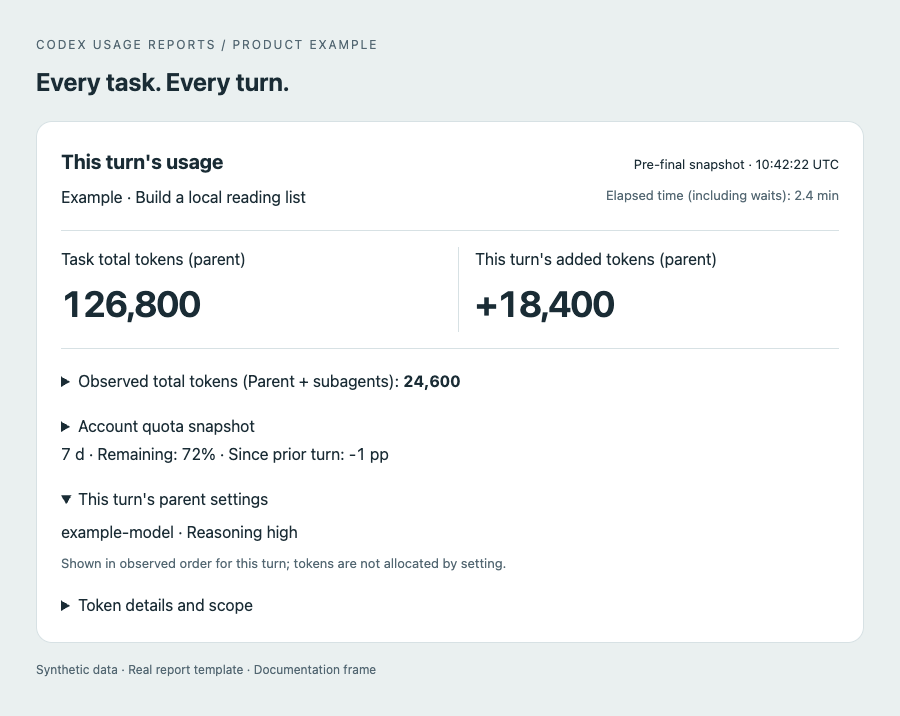
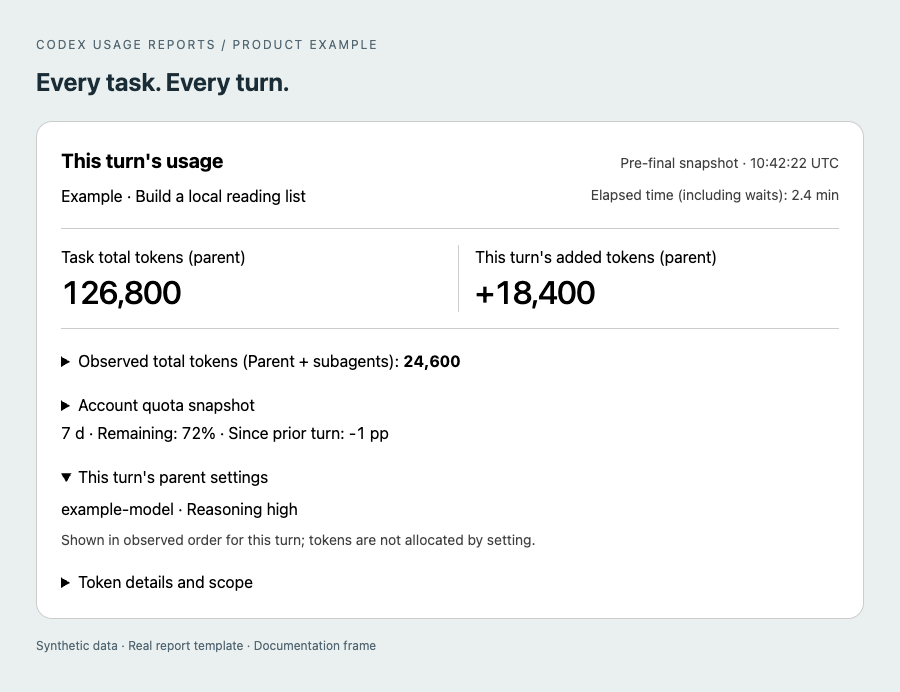
Fix mobile report contrast across remote host themes

diff --git a/docs/examples/turn-ja.html b/docs/examples/turn-ja.html
@@ -21,37 +21,48 @@ section[id]{background:#132630}.example-kicker,.example-note{color:#a0b2bb}}
 <h1 class="example-title">Every task. Every turn.</h1><section id="usage-reports-example" lang="ja" aria-label="このターンの使用量">
   <style>
     #usage-reports-example {
-      color: var(--foreground); overflow-wrap: anywhere; box-sizing: border-box;
-      border: 1px solid var(--border); border-radius: 16px; padding: clamp(16px, 3vw, 24px);
+      /* System color pairs remain readable when a remote host omits or misbinds its theme tokens. */
+      color: CanvasText; background-color: Canvas;
+      font-family: system-ui, sans-serif; font-size: 1rem; line-height: 1.5;
+      overflow-wrap: anywhere; box-sizing: border-box;
+      border: 1px solid var(--report-border, GrayText); border-radius: 16px; padding: clamp(16px, 3vw, 24px);
+    }
+    #usage-reports-example :is(h2, p, span, dt, dd, summary, strong, li, th, td) { color: inherit; -webkit-text-fill-color: currentColor; }
+    #usage-reports-example .text-small { font-size: .875em; opacity: .75; }
+    #usage-reports-example .viz-stat-value { color: CanvasText; font-size: 2rem; line-height: 1.2; font-weight: 500; }
+    #usage-reports-example .tabular-nums { font-variant-numeric: tabular-nums; }
+    #usage-reports-example .report-head h2 { font-size: 1.25em; }
+    @supports (color: color-mix(in srgb, CanvasText 20%, Canvas)) {
+      #usage-reports-example { --report-border: color-mix(in srgb, CanvasText 20%, Canvas); }
     }
     #usage-reports-example .report-head { display: flex; flex-wrap: wrap; align-items: baseline; justify-content: space-between; gap: 8px 16px; }
     #usage-reports-example .report-head h2 { margin: 0; }
     #usage-reports-example .report-meta { display: flex; flex-wrap: wrap; justify-content: space-between; gap: 4px 16px; margin: 8px 0 20px; }
     #usage-reports-example .report-meta p { margin: 0; }
-    #usage-reports-example .report-meta .text-small { color: var(--muted-foreground); }
-    #usage-reports-example .report-totals { display: grid; grid-template-columns: minmax(0, 1fr) minmax(0, 1fr); gap: 16px; margin: 0; padding: 16px 0; border-top: 1px solid var(--border); border-bottom: 1px solid var(--border); }
-    #usage-reports-example .report-totals > div + div { border-left: 1px solid var(--border); padding-left: 16px; }
-    #usage-reports-example .report-totals dt { color: var(--foreground); }
+    #usage-reports-example .report-meta .text-small { color: CanvasText; }
+    #usage-reports-example .report-totals { display: grid; grid-template-columns: minmax(0, 1fr) minmax(0, 1fr); gap: 16px; margin: 0; padding: 16px 0; border-top: 1px solid var(--report-border, GrayText); border-bottom: 1px solid var(--report-border, GrayText); }
+    #usage-reports-example .report-totals > div + div { border-left: 1px solid var(--report-border, GrayText); padding-left: 16px; }
+    #usage-reports-example .report-totals dt { color: CanvasText; }
     #usage-reports-example .report-scope p { margin: 4px 0; }
     #usage-reports-example .report-context-list { margin: 8px 0; padding-left: 1.5em; }
     #usage-reports-example .report-context-list li + li { margin-top: 6px; }
     #usage-reports-example .report-context-single { margin: 8px 0; }
-    #usage-reports-example .report-context .text-small { color: var(--muted-foreground); margin: 6px 0; }
-    #usage-reports-example .report-quota .text-small { color: var(--muted-foreground); margin: 6px 0; }
+    #usage-reports-example .report-context .text-small { color: CanvasText; margin: 6px 0; }
+    #usage-reports-example .report-quota .text-small { color: CanvasText; margin: 6px 0; }
     #usage-reports-example .report-quota-weekly { display: block; margin-top: 4px; font-variant-numeric: tabular-nums; }
     #usage-reports-example .report-quota-table { width: 100%; table-layout: fixed; border-collapse: collapse; }
-    #usage-reports-example .report-quota-table th, #usage-reports-example .report-quota-table td { text-align: left; vertical-align: top; padding: 10px 12px 10px 0; border-bottom: 1px solid var(--border); }
+    #usage-reports-example .report-quota-table th, #usage-reports-example .report-quota-table td { text-align: left; vertical-align: top; padding: 10px 12px 10px 0; border-bottom: 1px solid var(--report-border, GrayText); }
     #usage-reports-example .report-quota-table th:last-child, #usage-reports-example .report-quota-table td:last-child { padding-right: 0; }
-    #usage-reports-example .report-quota-table thead th { color: var(--muted-foreground); }
+    #usage-reports-example .report-quota-table thead th { color: CanvasText; }
     #usage-reports-example .report-quota-table th:nth-child(1) { width: 34%; }
     #usage-reports-example .report-quota-table th:nth-child(2) { width: 23%; }
-    #usage-reports-example dt { color: var(--muted-foreground); }
+    #usage-reports-example dt { color: CanvasText; }
     #usage-reports-example dd { margin: 4px 0 0; }
     #usage-reports-example details { margin-top: 20px; }
     #usage-reports-example summary { cursor: pointer; }
     #usage-reports-example .report-detail { display: grid; grid-template-columns: 1fr auto; gap: 8px 16px; }
     #usage-reports-example .report-detail dd { margin: 0; text-align: right; font-variant-numeric: tabular-nums; }
-    #usage-reports-example .report-agent { display: grid; grid-template-columns: minmax(0, 1fr) auto; gap: 12px; padding: 12px 0; border-top: 1px solid var(--border); }
+    #usage-reports-example .report-agent { display: grid; grid-template-columns: minmax(0, 1fr) auto; gap: 12px; padding: 12px 0; border-top: 1px solid var(--report-border, GrayText); }
     @media (max-width: 480px) {
       #usage-reports-example .report-totals { grid-template-columns: minmax(0, 1fr); }
       #usage-reports-example .report-totals > div + div { border-left: 0; padding-left: 0; }

diff --git a/docs/examples/turn-en.html b/docs/examples/turn-en.html
@@ -21,37 +21,48 @@ section[id]{background:#132630}.example-kicker,.example-note{color:#a0b2bb}}
 <h1 class="example-title">Every task. Every turn.</h1><section id="usage-reports-example" lang="en" aria-label="This turn&#x27;s usage">
   <style>
     #usage-reports-example {
-      color: var(--foreground); overflow-wrap: anywhere; box-sizing: border-box;
-      border: 1px solid var(--border); border-radius: 16px; padding: clamp(16px, 3vw, 24px);
+      /* System color pairs remain readable when a remote host omits or misbinds its theme tokens. */
+      color: CanvasText; background-color: Canvas;
+      font-family: system-ui, sans-serif; font-size: 1rem; line-height: 1.5;
+      overflow-wrap: anywhere; box-sizing: border-box;
+      border: 1px solid var(--report-border, GrayText); border-radius: 16px; padding: clamp(16px, 3vw, 24px);
+    }
+    #usage-reports-example :is(h2, p, span, dt, dd, summary, strong, li, th, td) { color: inherit; -webkit-text-fill-color: currentColor; }
+    #usage-reports-example .text-small { font-size: .875em; opacity: .75; }
+    #usage-reports-example .viz-stat-value { color: CanvasText; font-size: 2rem; line-height: 1.2; font-weight: 500; }
+    #usage-reports-example .tabular-nums { font-variant-numeric: tabular-nums; }
+    #usage-reports-example .report-head h2 { font-size: 1.25em; }
+    @supports (color: color-mix(in srgb, CanvasText 20%, Canvas)) {
+      #usage-reports-example { --report-border: color-mix(in srgb, CanvasText 20%, Canvas); }
     }
     #usage-reports-example .report-head { display: flex; flex-wrap: wrap; align-items: baseline; justify-content: space-between; gap: 8px 16px; }
     #usage-reports-example .report-head h2 { margin: 0; }
     #usage-reports-example .report-meta { display: flex; flex-wrap: wrap; justify-content: space-between; gap: 4px 16px; margin: 8px 0 20px; }
     #usage-reports-example .report-meta p { margin: 0; }
-    #usage-reports-example .report-meta .text-small { color: var(--muted-foreground); }
-    #usage-reports-example .report-totals { display: grid; grid-template-columns: minmax(0, 1fr) minmax(0, 1fr); gap: 16px; margin: 0; padding: 16px 0; border-top: 1px solid var(--border); border-bottom: 1px solid var(--border); }
-    #usage-reports-example .report-totals > div + div { border-left: 1px solid var(--border); padding-left: 16px; }
-    #usage-reports-example .report-totals dt { color: var(--foreground); }
+    #usage-reports-example .report-meta .text-small { color: CanvasText; }
+    #usage-reports-example .report-totals { display: grid; grid-template-columns: minmax(0, 1fr) minmax(0, 1fr); gap: 16px; margin: 0; padding: 16px 0; border-top: 1px solid var(--report-border, GrayText); border-bottom: 1px solid var(--report-border, GrayText); }
+    #usage-reports-example .report-totals > div + div { border-left: 1px solid var(--report-border, GrayText); padding-left: 16px; }
+    #usage-reports-example .report-totals dt { color: CanvasText; }
     #usage-reports-example .report-scope p { margin: 4px 0; }
     #usage-reports-example .report-context-list { margin: 8px 0; padding-left: 1.5em; }
     #usage-reports-example .report-context-list li + li { margin-top: 6px; }
     #usage-reports-example .report-context-single { margin: 8px 0; }
-    #usage-reports-example .report-context .text-small { color: var(--muted-foreground); margin: 6px 0; }
-    #usage-reports-example .report-quota .text-small { color: var(--muted-foreground); margin: 6px 0; }
+    #usage-reports-example .report-context .text-small { color: CanvasText; margin: 6px 0; }
+    #usage-reports-example .report-quota .text-small { color: CanvasText; margin: 6px 0; }
     #usage-reports-example .report-quota-weekly { display: block; margin-top: 4px; font-variant-numeric: tabular-nums; }
     #usage-reports-example .report-quota-table { width: 100%; table-layout: fixed; border-collapse: collapse; }
-    #usage-reports-example .report-quota-table th, #usage-reports-example .report-quota-table td { text-align: left; vertical-align: top; padding: 10px 12px 10px 0; border-bottom: 1px solid var(--border); }
+    #usage-reports-example .report-quota-table th, #usage-reports-example .report-quota-table td { text-align: left; vertical-align: top; padding: 10px 12px 10px 0; border-bottom: 1px solid var(--report-border, GrayText); }
     #usage-reports-example .report-quota-table th:last-child, #usage-reports-example .report-quota-table td:last-child { padding-right: 0; }
-    #usage-reports-example .report-quota-table thead th { color: var(--muted-foreground); }
+    #usage-reports-example .report-quota-table thead th { color: CanvasText; }
     #usage-reports-example .report-quota-table th:nth-child(1) { width: 34%; }
     #usage-reports-example .report-quota-table th:nth-child(2) { width: 23%; }
-    #usage-reports-example dt { color: var(--muted-foreground); }
+    #usage-reports-example dt { color: CanvasText; }
     #usage-reports-example dd { margin: 4px 0 0; }
     #usage-reports-example details { margin-top: 20px; }
     #usage-reports-example summary { cursor: pointer; }
     #usage-reports-example .report-detail { display: grid; grid-template-columns: 1fr auto; gap: 8px 16px; }
     #usage-reports-example .report-detail dd { margin: 0; text-align: right; font-variant-numeric: tabular-nums; }
-    #usage-reports-example .report-agent { display: grid; grid-template-columns: minmax(0, 1fr) auto; gap: 12px; padding: 12px 0; border-top: 1px solid var(--border); }
+    #usage-reports-example .report-agent { display: grid; grid-template-columns: minmax(0, 1fr) auto; gap: 12px; padding: 12px 0; border-top: 1px solid var(--report-border, GrayText); }
     @media (max-width: 480px) {
       #usage-reports-example .report-totals { grid-template-columns: minmax(0, 1fr); }
       #usage-reports-example .report-totals > div + div { border-left: 0; padding-left: 0; }

diff --git a/docs/examples/turn-zh-Hans.html b/docs/examples/turn-zh-Hans.html
@@ -21,37 +21,48 @@ section[id]{background:#132630}.example-kicker,.example-note{color:#a0b2bb}}
 <h1 class="example-title">Every task. Every turn.</h1><section id="usage-reports-example" lang="zh-Hans" aria-label="本回合用量">
   <style>
     #usage-reports-example {
-      color: var(--foreground); overflow-wrap: anywhere; box-sizing: border-box;
-      border: 1px solid var(--border); border-radius: 16px; padding: clamp(16px, 3vw, 24px);
+      /* System color pairs remain readable when a remote host omits or misbinds its theme tokens. */
+      color: CanvasText; background-color: Canvas;
+      font-family: system-ui, sans-serif; font-size: 1rem; line-height: 1.5;
+      overflow-wrap: anywhere; box-sizing: border-box;
+      border: 1px solid var(--report-border, GrayText); border-radius: 16px; padding: clamp(16px, 3vw, 24px);
+    }
+    #usage-reports-example :is(h2, p, span, dt, dd, summary, strong, li, th, td) { color: inherit; -webkit-text-fill-color: currentColor; }
+    #usage-reports-example .text-small { font-size: .875em; opacity: .75; }
+    #usage-reports-example .viz-stat-value { color: CanvasText; font-size: 2rem; line-height: 1.2; font-weight: 500; }
+    #usage-reports-example .tabular-nums { font-variant-numeric: tabular-nums; }
+    #usage-reports-example .report-head h2 { font-size: 1.25em; }
+    @supports (color: color-mix(in srgb, CanvasText 20%, Canvas)) {
+      #usage-reports-example { --report-border: color-mix(in srgb, CanvasText 20%, Canvas); }
     }
     #usage-reports-example .report-head { display: flex; flex-wrap: wrap; align-items: baseline; justify-content: space-between; gap: 8px 16px; }
     #usage-reports-example .report-head h2 { margin: 0; }
     #usage-reports-example .report-meta { display: flex; flex-wrap: wrap; justify-content: space-between; gap: 4px 16px; margin: 8px 0 20px; }
     #usage-reports-example .report-meta p { margin: 0; }
-    #usage-reports-example .report-meta .text-small { color: var(--muted-foreground); }
-    #usage-reports-example .report-totals { display: grid; grid-template-columns: minmax(0, 1fr) minmax(0, 1fr); gap: 16px; margin: 0; padding: 16px 0; border-top: 1px solid var(--border); border-bottom: 1px solid var(--border); }
-    #usage-reports-example .report-totals > div + div { border-left: 1px solid var(--border); padding-left: 16px; }
-    #usage-reports-example .report-totals dt { color: var(--foreground); }
+    #usage-reports-example .report-meta .text-small { color: CanvasText; }
+    #usage-reports-example .report-totals { display: grid; grid-template-columns: minmax(0, 1fr) minmax(0, 1fr); gap: 16px; margin: 0; padding: 16px 0; border-top: 1px solid var(--report-border, GrayText); border-bottom: 1px solid var(--report-border, GrayText); }
+    #usage-reports-example .report-totals > div + div { border-left: 1px solid var(--report-border, GrayText); padding-left: 16px; }
+    #usage-reports-example .report-totals dt { color: CanvasText; }
     #usage-reports-example .report-scope p { margin: 4px 0; }
     #usage-reports-example .report-context-list { margin: 8px 0; padding-left: 1.5em; }
     #usage-reports-example .report-context-list li + li { margin-top: 6px; }
     #usage-reports-example .report-context-single { margin: 8px 0; }
-    #usage-reports-example .report-context .text-small { color: var(--muted-foreground); margin: 6px 0; }
-    #usage-reports-example .report-quota .text-small { color: var(--muted-foreground); margin: 6px 0; }
+    #usage-reports-example .report-context .text-small { color: CanvasText; margin: 6px 0; }
+    #usage-reports-example .report-quota .text-small { color: CanvasText; margin: 6px 0; }
     #usage-reports-example .report-quota-weekly { display: block; margin-top: 4px; font-variant-numeric: tabular-nums; }
     #usage-reports-example .report-quota-table { width: 100%; table-layout: fixed; border-collapse: collapse; }
-    #usage-reports-example .report-quota-table th, #usage-reports-example .report-quota-table td { text-align: left; vertical-align: top; padding: 10px 12px 10px 0; border-bottom: 1px solid var(--border); }
+    #usage-reports-example .report-quota-table th, #usage-reports-example .report-quota-table td { text-align: left; vertical-align: top; padding: 10px 12px 10px 0; border-bottom: 1px solid var(--report-border, GrayText); }
     #usage-reports-example .report-quota-table th:last-child, #usage-reports-example .report-quota-table td:last-child { padding-right: 0; }
-    #usage-reports-example .report-quota-table thead th { color: var(--muted-foreground); }
+    #usage-reports-example .report-quota-table thead th { color: CanvasText; }
     #usage-reports-example .report-quota-table th:nth-child(1) { width: 34%; }
     #usage-reports-example .report-quota-table th:nth-child(2) { width: 23%; }
-    #usage-reports-example dt { color: var(--muted-foreground); }
+    #usage-reports-example dt { color: CanvasText; }
     #usage-reports-example dd { margin: 4px 0 0; }
     #usage-reports-example details { margin-top: 20px; }
     #usage-reports-example summary { cursor: pointer; }
     #usage-reports-example .report-detail { display: grid; grid-template-columns: 1fr auto; gap: 8px 16px; }
     #usage-reports-example .report-detail dd { margin: 0; text-align: right; font-variant-numeric: tabular-nums; }
-    #usage-reports-example .report-agent { display: grid; grid-template-columns: minmax(0, 1fr) auto; gap: 12px; padding: 12px 0; border-top: 1px solid var(--border); }
+    #usage-reports-example .report-agent { display: grid; grid-template-columns: minmax(0, 1fr) auto; gap: 12px; padding: 12px 0; border-top: 1px solid var(--report-border, GrayText); }
     @media (max-width: 480px) {
       #usage-reports-example .report-totals { grid-template-columns: minmax(0, 1fr); }
       #usage-reports-example .report-totals > div + div { border-left: 0; padding-left: 0; }

diff --git a/docs/examples/turn-zh-Hant.html b/docs/examples/turn-zh-Hant.html
@@ -21,37 +21,48 @@ section[id]{background:#132630}.example-kicker,.example-note{color:#a0b2bb}}
 <h1 class="example-title">Every task. Every turn.</h1><section id="usage-reports-example" lang="zh-Hant" aria-label="本回合用量">
   <style>
     #usage-reports-example {
-      color: var(--foreground); overflow-wrap: anywhere; box-sizing: border-box;
-      border: 1px solid var(--border); border-radius: 16px; padding: clamp(16px, 3vw, 24px);
+      /* System color pairs remain readable when a remote host omits or misbinds its theme tokens. */
+      color: CanvasText; background-color: Canvas;
+      font-family: system-ui, sans-serif; font-size: 1rem; line-height: 1.5;
+      overflow-wrap: anywhere; box-sizing: border-box;
+      border: 1px solid var(--report-border, GrayText); border-radius: 16px; padding: clamp(16px, 3vw, 24px);
+    }
+    #usage-reports-example :is(h2, p, span, dt, dd, summary, strong, li, th, td) { color: inherit; -webkit-text-fill-color: currentColor; }
+    #usage-reports-example .text-small { font-size: .875em; opacity: .75; }
+    #usage-reports-example .viz-stat-value { color: CanvasText; font-size: 2rem; line-height: 1.2; font-weight: 500; }
+    #usage-reports-example .tabular-nums { font-variant-numeric: tabular-nums; }
+    #usage-reports-example .report-head h2 { font-size: 1.25em; }
+    @supports (color: color-mix(in srgb, CanvasText 20%, Canvas)) {
+      #usage-reports-example { --report-border: color-mix(in srgb, CanvasText 20%, Canvas); }
     }
     #usage-reports-example .report-head { display: flex; flex-wrap: wrap; align-items: baseline; justify-content: space-between; gap: 8px 16px; }
     #usage-reports-example .report-head h2 { margin: 0; }
     #usage-reports-example .report-meta { display: flex; flex-wrap: wrap; justify-content: space-between; gap: 4px 16px; margin: 8px 0 20px; }
     #usage-reports-example .report-meta p { margin: 0; }
-    #usage-reports-example .report-meta .text-small { color: var(--muted-foreground); }
-    #usage-reports-example .report-totals { display: grid; grid-template-columns: minmax(0, 1fr) minmax(0, 1fr); gap: 16px; margin: 0; padding: 16px 0; border-top: 1px solid var(--border); border-bottom: 1px solid var(--border); }
-    #usage-reports-example .report-totals > div + div { border-left: 1px solid var(--border); padding-left: 16px; }
-    #usage-reports-example .report-totals dt { color: var(--foreground); }
+    #usage-reports-example .report-meta .text-small { color: CanvasText; }
+    #usage-reports-example .report-totals { display: grid; grid-template-columns: minmax(0, 1fr) minmax(0, 1fr); gap: 16px; margin: 0; padding: 16px 0; border-top: 1px solid var(--report-border, GrayText); border-bottom: 1px solid var(--report-border, GrayText); }
+    #usage-reports-example .report-totals > div + div { border-left: 1px solid var(--report-border, GrayText); padding-left: 16px; }
+    #usage-reports-example .report-totals dt { color: CanvasText; }
     #usage-reports-example .report-scope p { margin: 4px 0; }
     #usage-reports-example .report-context-list { margin: 8px 0; padding-left: 1.5em; }
     #usage-reports-example .report-context-list li + li { margin-top: 6px; }
     #usage-reports-example .report-context-single { margin: 8px 0; }
-    #usage-reports-example .report-context .text-small { color: var(--muted-foreground); margin: 6px 0; }
-    #usage-reports-example .report-quota .text-small { color: var(--muted-foreground); margin: 6px 0; }
+    #usage-reports-example .report-context .text-small { color: CanvasText; margin: 6px 0; }
+    #usage-reports-example .report-quota .text-small { color: CanvasText; margin: 6px 0; }
     #usage-reports-example .report-quota-weekly { display: block; margin-top: 4px; font-variant-numeric: tabular-nums; }
     #usage-reports-example .report-quota-table { width: 100%; table-layout: fixed; border-collapse: collapse; }
-    #usage-reports-example .report-quota-table th, #usage-reports-example .report-quota-table td { text-align: left; vertical-align: top; padding: 10px 12px 10px 0; border-bottom: 1px solid var(--border); }
+    #usage-reports-example .report-quota-table th, #usage-reports-example .report-quota-table td { text-align: left; vertical-align: top; padding: 10px 12px 10px 0; border-bottom: 1px solid var(--report-border, GrayText); }
     #usage-reports-example .report-quota-table th:last-child, #usage-reports-example .report-quota-table td:last-child { padding-right: 0; }
-    #usage-reports-example .report-quota-table thead th { color: var(--muted-foreground); }
+    #usage-reports-example .report-quota-table thead th { color: CanvasText; }
     #usage-reports-example .report-quota-table th:nth-child(1) { width: 34%; }
     #usage-reports-example .report-quota-table th:nth-child(2) { width: 23%; }
-    #usage-reports-example dt { color: var(--muted-foreground); }
+    #usage-reports-example dt { color: CanvasText; }
     #usage-reports-example dd { margin: 4px 0 0; }
     #usage-reports-example details { margin-top: 20px; }
     #usage-reports-example summary { cursor: pointer; }
     #usage-reports-example .report-detail { display: grid; grid-template-columns: 1fr auto; gap: 8px 16px; }
     #usage-reports-example .report-detail dd { margin: 0; text-align: right; font-variant-numeric: tabular-nums; }
-    #usage-reports-example .report-agent { display: grid; grid-template-columns: minmax(0, 1fr) auto; gap: 12px; padding: 12px 0; border-top: 1px solid var(--border); }
+    #usage-reports-example .report-agent { display: grid; grid-template-columns: minmax(0, 1fr) auto; gap: 12px; padding: 12px 0; border-top: 1px solid var(--report-border, GrayText); }
     @media (max-width: 480px) {
       #usage-reports-example .report-totals { grid-template-columns: minmax(0, 1fr); }
       #usage-reports-example .report-totals > div + div { border-left: 0; padding-left: 0; }

diff --git a/plugins/codex-usage-reports/lib/codex_usage_reports/assets/turn-card.html b/plugins/codex-usage-reports/lib/codex_usage_reports/assets/turn-card.html
@@ -1,37 +1,48 @@
 <section id="usage-reports-$key" lang="$locale" aria-label="$label_card_title">
   <style>
     #usage-reports-$key {
-      color: var(--foreground); overflow-wrap: anywhere; box-sizing: border-box;
-      border: 1px solid var(--border); border-radius: 16px; padding: clamp(16px, 3vw, 24px);
+      /* System color pairs remain readable when a remote host omits or misbinds its theme tokens. */
+      color: CanvasText; background-color: Canvas;
+      font-family: system-ui, sans-serif; font-size: 1rem; line-height: 1.5;
+      overflow-wrap: anywhere; box-sizing: border-box;
+      border: 1px solid var(--report-border, GrayText); border-radius: 16px; padding: clamp(16px, 3vw, 24px);
+    }
+    #usage-reports-$key :is(h2, p, span, dt, dd, summary, strong, li, th, td) { color: inherit; -webkit-text-fill-color: currentColor; }
+    #usage-reports-$key .text-small { font-size: .875em; opacity: .75; }
+    #usage-reports-$key .viz-stat-value { color: CanvasText; font-size: 2rem; line-height: 1.2; font-weight: 500; }
+    #usage-reports-$key .tabular-nums { font-variant-numeric: tabular-nums; }
+    #usage-reports-$key .report-head h2 { font-size: 1.25em; }
+    @supports (color: color-mix(in srgb, CanvasText 20%, Canvas)) {
+      #usage-reports-$key { --report-border: color-mix(in srgb, CanvasText 20%, Canvas); }
     }
     #usage-reports-$key .report-head { display: flex; flex-wrap: wrap; align-items: baseline; justify-content: space-between; gap: 8px 16px; }
     #usage-reports-$key .report-head h2 { margin: 0; }
     #usage-reports-$key .report-meta { display: flex; flex-wrap: wrap; justify-content: space-between; gap: 4px 16px; margin: 8px 0 20px; }
     #usage-reports-$key .report-meta p { margin: 0; }
-    #usage-reports-$key .report-meta .text-small { color: var(--muted-foreground); }
-    #usage-reports-$key .report-totals { display: grid; grid-template-columns: minmax(0, 1fr) minmax(0, 1fr); gap: 16px; margin: 0; padding: 16px 0; border-top: 1px solid var(--border); border-bottom: 1px solid var(--border); }
-    #usage-reports-$key .report-totals > div + div { border-left: 1px solid var(--border); padding-left: 16px; }
-    #usage-reports-$key .report-totals dt { color: var(--foreground); }
+    #usage-reports-$key .report-meta .text-small { color: CanvasText; }
+    #usage-reports-$key .report-totals { display: grid; grid-template-columns: minmax(0, 1fr) minmax(0, 1fr); gap: 16px; margin: 0; padding: 16px 0; border-top: 1px solid var(--report-border, GrayText); border-bottom: 1px solid var(--report-border, GrayText); }
+    #usage-reports-$key .report-totals > div + div { border-left: 1px solid var(--report-border, GrayText); padding-left: 16px; }
+    #usage-reports-$key .report-totals dt { color: CanvasText; }
     #usage-reports-$key .report-scope p { margin: 4px 0; }
     #usage-reports-$key .report-context-list { margin: 8px 0; padding-left: 1.5em; }
     #usage-reports-$key .report-context-list li + li { margin-top: 6px; }
     #usage-reports-$key .report-context-single { margin: 8px 0; }
-    #usage-reports-$key .report-context .text-small { color: var(--muted-foreground); margin: 6px 0; }
-    #usage-reports-$key .report-quota .text-small { color: var(--muted-foreground); margin: 6px 0; }
+    #usage-reports-$key .report-context .text-small { color: CanvasText; margin: 6px 0; }
+    #usage-reports-$key .report-quota .text-small { color: CanvasText; margin: 6px 0; }
     #usage-reports-$key .report-quota-weekly { display: block; margin-top: 4px; font-variant-numeric: tabular-nums; }
     #usage-reports-$key .report-quota-table { width: 100%; table-layout: fixed; border-collapse: collapse; }
-    #usage-reports-$key .report-quota-table th, #usage-reports-$key .report-quota-table td { text-align: left; vertical-align: top; padding: 10px 12px 10px 0; border-bottom: 1px solid var(--border); }
+    #usage-reports-$key .report-quota-table th, #usage-reports-$key .report-quota-table td { text-align: left; vertical-align: top; padding: 10px 12px 10px 0; border-bottom: 1px solid var(--report-border, GrayText); }
     #usage-reports-$key .report-quota-table th:last-child, #usage-reports-$key .report-quota-table td:last-child { padding-right: 0; }
-    #usage-reports-$key .report-quota-table thead th { color: var(--muted-foreground); }
+    #usage-reports-$key .report-quota-table thead th { color: CanvasText; }
     #usage-reports-$key .report-quota-table th:nth-child(1) { width: 34%; }
     #usage-reports-$key .report-quota-table th:nth-child(2) { width: 23%; }
-    #usage-reports-$key dt { color: var(--muted-foreground); }
+    #usage-reports-$key dt { color: CanvasText; }
     #usage-reports-$key dd { margin: 4px 0 0; }
     #usage-reports-$key details { margin-top: 20px; }
     #usage-reports-$key summary { cursor: pointer; }
     #usage-reports-$key .report-detail { display: grid; grid-template-columns: 1fr auto; gap: 8px 16px; }
     #usage-reports-$key .report-detail dd { margin: 0; text-align: right; font-variant-numeric: tabular-nums; }
-    #usage-reports-$key .report-agent { display: grid; grid-template-columns: minmax(0, 1fr) auto; gap: 12px; padding: 12px 0; border-top: 1px solid var(--border); }
+    #usage-reports-$key .report-agent { display: grid; grid-template-columns: minmax(0, 1fr) auto; gap: 12px; padding: 12px 0; border-top: 1px solid var(--report-border, GrayText); }
     @media (max-width: 480px) {
       #usage-reports-$key .report-totals { grid-template-columns: minmax(0, 1fr); }
       #usage-reports-$key .report-totals > div + div { border-left: 0; padding-left: 0; }

diff --git a/plugins/codex-usage-reports/lib/codex_usage_reports/__init__.py b/plugins/codex-usage-reports/lib/codex_usage_reports/__init__.py
@@ -1,3 +1,3 @@
 """Local Task and turn usage reports for Codex. No model calls or enforcement."""
 
-__version__ = "0.1.0"
+__version__ = "0.1.1"

diff --git a/docs/VALIDATION.md b/docs/VALIDATION.md
@@ -20,6 +20,38 @@ The automated CI matrix targets Python 3.10, 3.11, 3.12, and 3.13 on Linux.
 
 The installed hook test invokes real installed hook commands with synthetic native data. It does **not** establish that every Codex host delivers every event. The real catalog query checks current native parsing, not an end-to-end model conversation. Hook trust, native schema availability, and inline rendering remain host-dependent.
 
+## 0.1.1 remote-card rendering fix
+
+The earlier documentation frame supplied its own theme variables, masking the
+report fragment's dependency on host foreground colors. A reproduction with an
+inverted foreground makes the old template's title, totals, and disclosures
+match the background (contrast 1:1), while muted elapsed text remains visible.
+This matches the reported symptom; it does not identify the iPhone host's
+internal implementation.
+
+The updated fragment uses paired browser `CanvasText`/`Canvas` colors and scoped
+text styles. Playwright 1.62.1 exercised Chromium and WebKit across four locales,
+390/900 px widths, light/dark schemes, and missing/normal/inverted host tokens:
+96 cases passed, with no horizontal overflow or page errors, readable text
+(contrast at least 4.5:1), and keyboard-operable native disclosures. Both
+collapsed and expanded states were checked. WebKit screenshots were inspected.
+
+These are browser tests, not an end-to-end test on the iPhone remote app.
+Existing artifacts do not refresh after installation, and existing Tasks can
+keep their pinned runtime; start a new Task to pick up the corrected renderer.
+
+To reproduce (optional development dependencies only):
+
+```sh
+npm install --no-save --package-lock=false playwright@1.62.1
+npx playwright install chromium webkit
+python3 scripts/generate_examples.py
+node scripts/check_mobile_card.cjs
+```
+
+Use `BROWSER_CHANNEL=chrome` for an existing Chrome installation. CI runs this
+fragment matrix separately from the framed screenshot checks.
+
 ## Reproduce the source checks
 
 ```sh

diff --git a/docs/TROUBLESHOOTING.md b/docs/TROUBLESHOOTING.md
@@ -2,6 +2,7 @@
 
 | Symptom | Check |
 | --- | --- |
+| Card borders or elapsed time appear, but main text is blank | Update to 0.1.1 or later and begin a new Task. Older cards and Tasks can retain the old theme-dependent template. Browser coverage is documented in [validation](VALIDATION.md); actual iPhone remote rendering still needs device confirmation. |
 | No automatic card | Confirm the plugin is installed, hooks are trusted, and this is a new Task. Run `auto-report status`. |
 | CLI report works, no inline visualization | The host must support local visualization references. Read the HTML/Markdown receipt instead. |
 | `missing_start` / `no_active_start` | Preview needs a running turn's baseline; install before starting a new Task. |

diff --git a/CHANGELOG.md b/CHANGELOG.md
@@ -1,5 +1,11 @@
 # Changelog
 
+## 0.1.1 — 2026-09-13
+
+- Make inline report text readable when a remote host omits or misbinds theme colors, using paired browser system colors and scoped typography.
+- Add fragment-level Chromium and WebKit checks across four languages, phone/desktop widths, both themes, and three host color configurations.
+- Refresh report screenshots and document the new-Task boundary for installed updates.
+
 ## 0.1.0 — 2026-09-13
 
 - Extract automatic Task and turn reporting into an independent Codex plugin and Python CLI.
